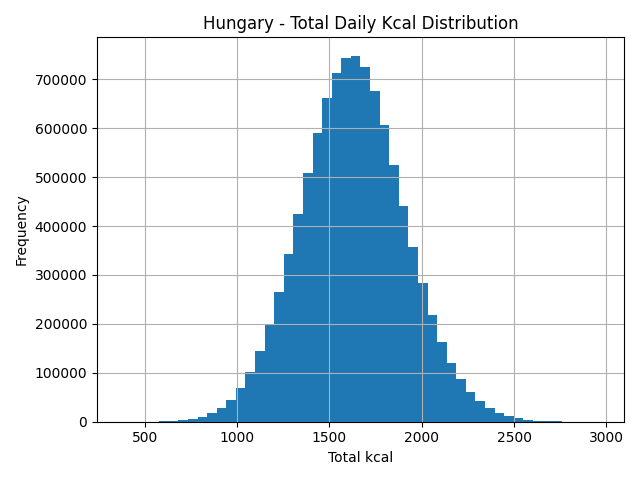
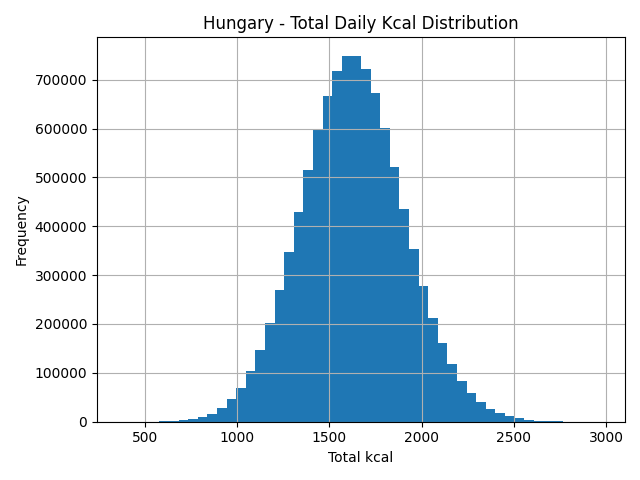
Created the db_analyzation_v2 to extract statistics for the three databases.

diff --git a/backend/app/management/commands/db_analyzation_v2.py b/backend/app/management/commands/db_analyzation_v2.py
@@ -1,57 +1,73 @@
 from django.core.management.base import BaseCommand
 from app.models import Meal
-from itertools import product
 import matplotlib.pyplot as plt
 import numpy as np
-import statistics
 
 class Command(BaseCommand):
-    help = 'Analyze the three databases.'
+    help = 'Efficiently analyze meals by country and in total.'
+
+    def sample_and_analyze(self, label, country, num_samples):
+        # Fetch kcal arrays for each type
+        if country:
+            breakfasts = np.array(
+                Meal.objects.filter(Country__in=country, Type='Breakfast').values_list('Total_Energy', flat=True), dtype=np.float32)
+            snacks = np.array(
+                Meal.objects.filter(Country__in=country, Type='Snack').values_list('Total_Energy', flat=True), dtype=np.float32)
+            lunches = np.array(
+                Meal.objects.filter(Country__in=country, Type='Lunch').values_list('Total_Energy', flat=True), dtype=np.float32)
+            dinners = np.array(
+                Meal.objects.filter(Country__in=country, Type='Dinner').values_list('Total_Energy', flat=True), dtype=np.float32)
+        else:
+            breakfasts = np.array(
+                Meal.objects.filter(Type='Breakfast').values_list('Total_Energy', flat=True), dtype=np.float32)
+            snacks = np.array(
+                Meal.objects.filter(Type='Snack').values_list('Total_Energy', flat=True), dtype=np.float32)
+            lunches = np.array(
+                Meal.objects.filter(Type='Lunch').values_list('Total_Energy', flat=True), dtype=np.float32)
+            dinners = np.array(
+                Meal.objects.filter(Type='Dinner').values_list('Total_Energy', flat=True), dtype=np.float32)
+
+        if not all([len(breakfasts), len(snacks), len(lunches), len(dinners)]):
+            self.stdout.write(self.style.WARNING(f"Not enough data for {label}, skipping."))
+            return
+
+        # Sample with replacement
+        kcal_b = np.random.choice(breakfasts, size=num_samples, replace=True)
+        kcal_snacks = np.random.choice(snacks, size=(2, num_samples), replace=True)
+        kcal_l = np.random.choice(lunches, size=num_samples, replace=True)
+        kcal_d = np.random.choice(dinners, size=num_samples, replace=True)
+
+        # Sum total kcals
+        total_kcals = kcal_b + kcal_snacks.sum(axis=0) + kcal_l + kcal_d
+
+        # Stats
+        mean = np.mean(total_kcals)
+        median = np.median(total_kcals)
+        std = np.std(total_kcals)
+
+        self.stdout.write(self.style.SUCCESS(
+            f"{label[0]} — Mean: {mean:.2f}, Median: {median:.2f}, Std: {std:.2f}"
+        ))
+
+        # Plot histogram
+        plt.figure()
+        plt.hist(total_kcals, bins=50)
+        plt.title(f'{label[0]} - Total Daily Kcal Distribution')
+        plt.xlabel('Total kcal')
+        plt.ylabel('Frequency')
+        plt.grid(True)
+        plt.tight_layout()
+        filename = f"{label[0].lower().replace(' ', '_')}_daily_kcal_histogram.png"
+        plt.savefig(filename)
+        self.stdout.write(f"Saved histogram as {filename}")
 
     def handle(self, *args, **kwargs):
         countries = [["Ireland"], ["Spain"], ["Hungary"]]
-
-        num_samples = 10000000  # or make it configurable
+        num_samples = 10_000_000
 
         for country in countries:
-            self.stdout.write(f'\nSampling for {country}...')
+            self.stdout.write(f"\nSampling for {country}...")
+            self.sample_and_analyze(label=country, country=country, num_samples=num_samples)
 
-            # Load only Total_Energy values from DB
-            breakfasts = list(Meal.objects.filter(Country__in=country, Type='Breakfast').values_list('Total_Energy', flat=True))
-            snacks = list(Meal.objects.filter(Country__in=country, Type='Snack').values_list('Total_Energy', flat=True))
-            lunches = list(Meal.objects.filter(Country__in=country, Type='Lunch').values_list('Total_Energy', flat=True))
-            dinners = list(Meal.objects.filter(Country__in=country, Type='Dinner').values_list('Total_Energy', flat=True))
-
-            if not all([breakfasts, snacks, lunches, dinners]):
-                self.stdout.write(self.style.WARNING(f"Not enough data for {country}, skipping."))
-                continue
-
-            # Sample with replacement using numpy
-            kcal_b = np.random.choice(breakfasts, size=num_samples, replace=True)
-            kcal_msnack = np.random.choice(snacks, size=num_samples, replace=True)
-            kcal_l = np.random.choice(lunches, size=num_samples, replace=True)
-            kcal_asnack = np.random.choice(snacks, size=num_samples, replace=True)
-            kcal_d = np.random.choice(dinners, size=num_samples, replace=True)
-
-            # Sum daily totals
-            total_kcals = kcal_b + kcal_msnack + kcal_l + kcal_asnack + kcal_d
-
-            # Compute stats
-            mean = np.mean(total_kcals)
-            median = np.median(total_kcals)
-            std = np.std(total_kcals)
-
-            self.stdout.write(self.style.SUCCESS(
-                f"{country[0]} Stats — Mean: {mean:.2f}, Median: {median:.2f}, Std: {std:.2f}"
-            ))
-
-            # Plot histogram
-            plt.figure()
-            plt.hist(total_kcals, bins=50)
-            plt.title(f'{country[0]} - Total Daily Kcal Distribution')
-            plt.xlabel('Total kcal')
-            plt.ylabel('Frequency')
-            plt.grid(True)
-            plt.tight_layout()
-            plt.savefig(f'{country[0].lower()}_daily_kcal_histogram.png')
-            self.stdout.write(f"Saved histogram as {country[0].lower()}_daily_kcal_histogram.png")
+        self.stdout.write(f"\nSampling for All countries...")
+        self.sample_and_analyze(label='All Countries', country=None, num_samples=num_samples)
